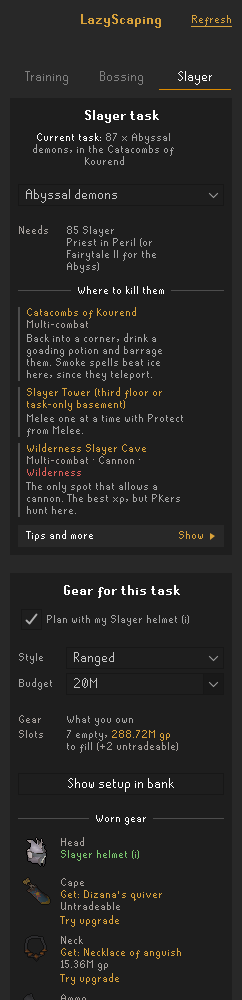
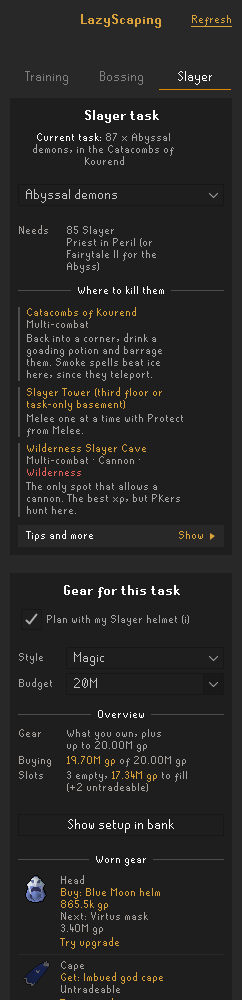
Show equipment stats and make the setup's sections easier to read
- An Equipment stats section under the worn gear shows its total attack,
  defence, strength and prayer bonuses, like the in-game screen, with
  the ones that matter for the style in gold and negatives in red.
- The setup starts with an Overview heading, gear slots are separated by
  thin lines, the inventory's summary is centred and its item groups and
  other ways to get there are set off as entries.

diff --git a/src/main/java/com/lazyscaping/ui/StatsView.java b/src/main/java/com/lazyscaping/ui/StatsView.java
@@ -1,0 +1,78 @@
+package com.lazyscaping.ui;
+
+import com.lazyscaping.api.GearSetup;
+import java.awt.Color;
+import java.awt.GridLayout;
+import java.util.List;
+import java.util.Set;
+import javax.swing.JLabel;
+import javax.swing.JPanel;
+import javax.swing.SwingConstants;
+import net.runelite.client.ui.ColorScheme;
+import net.runelite.client.ui.FontManager;
+
+/**
+ * The worn gear's total bonuses, laid out like the in-game equipment stats
+ * screen: attack and defence for each style, then strength and prayer. The
+ * bonuses that matter for the setup's style are gold.
+ */
+final class StatsView
+{
+	private static final String[] STYLES = {"Stab", "Slash", "Crush", "Magic", "Range"};
+	private static final String[] OTHER = {"Melee", "Ranged", "Magic", "Prayer"};
+	/** Where each group starts in the site's list of bonuses. */
+	private static final int ATTACK = 0;
+	private static final int DEFENCE = 5;
+	private static final int OTHER_START = 10;
+	private static final int MAGIC_DAMAGE = 12;
+
+	private StatsView()
+	{
+	}
+
+	static void addTo(JPanel parent, GearSetup setup)
+	{
+		List<Integer> stats = setup.getStats();
+		if (stats.size() < OTHER_START + OTHER.length)
+		{
+			return;
+		}
+		Set<Integer> key = Set.copyOf(setup.getKeyStats());
+
+		parent.add(Components.subheading("Equipment stats"));
+		parent.add(group("Attack", STYLES, stats, ATTACK, key));
+		parent.add(group("Defence", STYLES, stats, DEFENCE, key));
+		parent.add(group("Strength &amp; prayer", OTHER, stats, OTHER_START, key));
+	}
+
+	/** A titled row of bonuses, each with its name above its value. */
+	private static JPanel group(String title, String[] names, List<Integer> stats, int start, Set<Integer> key)
+	{
+		JPanel grid = new JPanel(new GridLayout(2, names.length, 2, 0));
+		grid.setOpaque(false);
+		for (String name : names)
+		{
+			grid.add(cell(name, ColorScheme.MEDIUM_GRAY_COLOR));
+		}
+		for (int i = 0; i < names.length; i++)
+		{
+			int index = start + i;
+			int value = stats.get(index);
+			Color color = key.contains(index) ? Html.GOLD : value < 0 ? Html.RED : ColorScheme.LIGHT_GRAY_COLOR;
+			grid.add(cell((value > 0 ? "+" : "") + value + (index == MAGIC_DAMAGE ? "%" : ""), color));
+		}
+
+		JPanel group = Components.column();
+		group.add(Components.spaced(Components.label(Html.muted(title)), 6));
+		group.add(Components.spaced(Components.fullWidth(grid), 1));
+		return group;
+	}
+
+	private static JLabel cell(String text, Color color)
+	{
+		JLabel cell = new JLabel(text, SwingConstants.CENTER);
+		cell.setFont(FontManager.getRunescapeSmallFont());
+		cell.setForeground(color);
+		return cell;
+	}
+}

diff --git a/src/main/java/com/lazyscaping/ui/InventoryView.java b/src/main/java/com/lazyscaping/ui/InventoryView.java
@@ -67,18 +67,19 @@ final class InventoryView
 		List<InventorySlot> slots = setup.getInventory();
 		int size = setup.getInventorySize() > 0 ? setup.getInventorySize() : DEFAULT_SIZE;
 		parent.add(Components.subheading("Inventory"));
-		parent.add(Components.label(Html.muted(Html.parts(slots.size() + "/" + size + " slots", "supplies " + Format.gp(setup.getTripCost()) + " a trip"))));
-		parent.add(Components.label(slotCounts(slots)));
+		parent.add(Components.label(Html.wrapCentered(Html.muted(Html.parts(slots.size() + "/" + size + " slots", "supplies " + Format.gp(setup.getTripCost()) + " a trip")),
+			Components.TEXT_WIDTH)));
+		parent.add(Components.label(Html.wrapCentered(slotCounts(slots), Components.TEXT_WIDTH)));
 		parent.add(Components.spaced(grid(slots, size, setup.getRunePouch(), icons), 6));
 
 		if (setup.getFoodCut() > 0)
 		{
-			parent.add(Components.spaced(Components.label(Html.muted(setup.getFoodCut() + " food left out so your switches fit.")), 4));
+			parent.add(Components.spaced(Components.label(Html.wrapCentered(Html.muted(setup.getFoodCut() + " food left out so your switches fit."), Components.TEXT_WIDTH)), 4));
 		}
 		if (setup.getOverflow() > 0)
 		{
 			String items = setup.getOverflow() == 1 ? " more item won't" : " more items won't";
-			parent.add(Components.spaced(Components.label(Html.color(Html.RED, setup.getOverflow() + items + " fit in one inventory.")), 4));
+			parent.add(Components.spaced(Components.label(Html.wrapCentered(Html.color(Html.RED, setup.getOverflow() + items + " fit in one inventory."), Components.TEXT_WIDTH)), 4));
 		}
 		parent.add(contents(slots, setup.getRunePouch()));
 	}
@@ -169,7 +170,9 @@ final class InventoryView
 		{
 			StringBuilder html = new StringBuilder(Html.color(groupKinds.get(group).color, Html.escape(group)));
 			items.forEach((name, count) -> html.append("<br>").append(count > 1 ? count + " x " : "").append(Html.escape(name)));
-			list.add(Components.spaced(Components.label(html.toString()), 6));
+			JPanel entry = Components.entry();
+			entry.add(Components.label(html.toString(), Components.ENTRY_WIDTH));
+			list.add(entry);
 		});
 		return list;
 	}

diff --git a/src/main/java/com/lazyscaping/ui/GearSetupView.java b/src/main/java/com/lazyscaping/ui/GearSetupView.java
@@ -163,7 +163,7 @@ class GearSetupView
 		{
 			setupPanel.add(tryingBar(setup));
 		}
-		setupPanel.add(Components.gap(4));
+		setupPanel.add(Components.subheading("Overview"));
 		if (!styleRow.isVisible())
 		{
 			setupPanel.add(Components.fact("Style", Html.escape(setup.getStyle())));
@@ -183,6 +183,7 @@ class GearSetupView
 			setupPanel.add(Components.subheading("Worn gear"));
 			setup.getPicks().forEach(slot -> setupPanel.add(slotRow(slot)));
 			setupPanel.add(switchDetails(setup));
+			StatsView.addTo(setupPanel, setup);
 		}
 
 		if (!setup.getInventory().isEmpty())
@@ -383,6 +384,6 @@ class GearSetupView
 		{
 			html.append(Html.muted("Empty"));
 		}
-		return Components.spaced(Components.pictureRow(picture, html.toString(), tryLink(slot)), 8);
+		return Components.listRow(Components.pictureRow(picture, html.toString(), tryLink(slot)));
 	}
 }

diff --git a/src/main/java/com/lazyscaping/ui/TravelView.java b/src/main/java/com/lazyscaping/ui/TravelView.java
@@ -38,9 +38,13 @@ final class TravelView
 
 		if (!travel.getRoutes().isEmpty())
 		{
-			StringBuilder html = new StringBuilder(Html.white("Other ways:"));
-			travel.getRoutes().forEach(route -> html.append("<br>- ").append(Html.escape(route)));
-			parent.add(Components.spaced(Components.label(html.toString()), 6));
+			parent.add(Components.spaced(Components.label(Html.white("Other ways")), 8));
+			for (String route : travel.getRoutes())
+			{
+				JPanel entry = Components.entry();
+				entry.add(Components.label(Html.escape(route), Components.ENTRY_WIDTH));
+				parent.add(entry);
+			}
 
 			String tip = (travel.isFairyRings() ? "Fairy rings need a dramen staff until you finish the elite Lumbridge & Draynor Diary. " : "")
 				+ "In your house, a portal nexus or jewellery box" + (travel.isFairyRings() ? " (or fairy ring)" : "")

diff --git a/src/main/java/com/lazyscaping/api/GearSetup.java b/src/main/java/com/lazyscaping/api/GearSetup.java
@@ -19,6 +19,14 @@ public class GearSetup
 	/** Set when no gear can be brought, saying why. */
 	private String noGear;
 	private List<GearSlot> picks = Collections.emptyList();
+	/**
+	 * Total bonuses of the worn gear, as on the in-game equipment stats screen:
+	 * five attack bonuses, five defence bonuses, then melee strength, ranged
+	 * strength, magic damage % and prayer.
+	 */
+	private List<Integer> stats = Collections.emptyList();
+	/** Indexes into {@link #stats} of the bonuses that matter most for the style. */
+	private List<Integer> keyStats = Collections.emptyList();
 	private List<GearSwitch> switches = Collections.emptyList();
 	private GearSlot spec;
 	/** One entry per inventory slot, in packing order. */

diff --git a/src/main/java/com/lazyscaping/ui/Components.java b/src/main/java/com/lazyscaping/ui/Components.java
@@ -269,6 +269,15 @@ final class Components
 		return rule;
 	}
 
+	/** One row of a list, with a thin line under it to set it apart from the next. */
+	static JComponent listRow(JComponent content)
+	{
+		content.setBorder(BorderFactory.createCompoundBorder(
+			BorderFactory.createMatteBorder(0, 0, 1, 0, ColorScheme.DARK_GRAY_COLOR),
+			new EmptyBorder(5, 0, 5, 0)));
+		return content;
+	}
+
 	/** Muted text centred across the card, for a card's opening line. */
 	static JLabel intro(String text)
 	{

diff --git a/README.md b/README.md
@@ -2,7 +2,7 @@
 
 A RuneLite plugin for [LazyScaping](https://lazyscaping.app), the easy, cheap OSRS training and boss gear planner.
 
-<img src="docs/training.png" alt="The Training tab: a Herblore goal with progress, the plan by level and training methods" width="242"> <img src="docs/bossing.png" alt="The Bossing tab: a solo Nex gear setup trying one upgrade, with each worn slot, its price and the next upgrade" width="242"> <img src="docs/slayer.png" alt="The Slayer tab: the current task, its requirements, where to kill them and gear for the task" width="242">
+<img src="docs/training.png" alt="The Training tab: a Herblore goal with progress, the plan by level and training methods" width="242"> <img src="docs/bossing.png" alt="The Bossing tab: a solo Nex gear setup with an overview, each worn slot with its price and the next upgrade" width="242"> <img src="docs/slayer.png" alt="The Slayer tab: the current task, its requirements, where to kill them and gear for the task" width="242">
 
 Found a bug or have an idea? [Open an issue](https://github.com/zaneowen/lazyscaping-runelite/issues).
 
@@ -20,6 +20,7 @@ The side panel has three tabs.
 **Bossing**
 - **Gear setup.** Pick a boss, by name or narrowed to a type like *Slayer bosses* or *Raids*, to see the best setup from the gear you own: each worn slot's item with its picture, what to get next and its GE price, the packed inventory with switches, the special attack weapon and supplies, and how to get there. With a budget, it also buys the best upgrades you can afford (not for ironmen).
 - **Solo or group.** Bosses with solo and group builds, like the raids, Nex and the God Wars generals, have a *Team* picker. The choice is saved per boss.
+- **Equipment stats.** The worn gear's total bonuses, laid out like the in-game equipment stats screen, with the ones that matter for your style in gold.
 - **Try upgrades.** Click *Try upgrade* under any slot to see the setup as if you had the next item, switches and inventory included. Try as many as you like, then *Back to my gear* returns to what you own.
 
 **Slayer**
